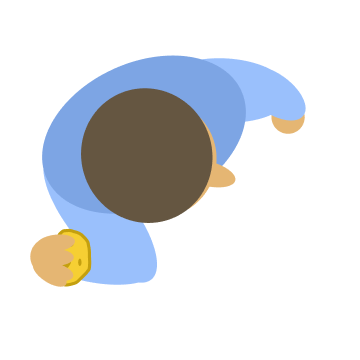
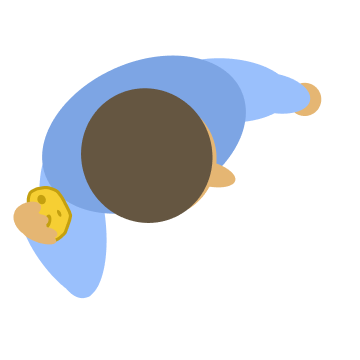
add sprites for all weapons

Changed region(s): [[0.0306, 0.4583, 0.4583, 0.825], [0.7333, 0.2139, 0.9167, 0.3972]]

diff --git a/src/entities/weapons/WeaponInventory.ts b/src/entities/weapons/WeaponInventory.ts
@@ -14,27 +14,30 @@ export class WeaponInventory {
 
   constructor(scene: GameScene) {
     this.scene = scene;
-    this.currentWeapon = new Sniper();
-    this.weapons.set("sniper", this.currentWeapon);
-    this.weapons.set("fullautogun", new FullAutoGun());
+    this.currentWeapon = new Throw();
+    this.weapons.set("throw", this.currentWeapon);
     this.weapons.set("pistol", new Pistol());
+    this.weapons.set("fullautogun", new FullAutoGun());
+    this.weapons.set("sniper", new Sniper());
     this.weapons.set("shotgun", new Shotgun());
-    this.weapons.set("throw", new Throw());
-    this.setCurrentWeapon("pistol");
+    this.setCurrentWeapon("throw");
   }
 
   getCurrentWeapon(): Weapon {
     return this.currentWeapon;
   }
 
+  private updateCharacterTexture(): void {
+    if (this.scene.character) {
+      this.scene.character.setTexture(this.currentWeapon.characterTexture);
+    }
+  }
+
   setCurrentWeapon(weaponName: string): boolean {
     const weapon = this.weapons.get(weaponName);
     if (weapon) {
       this.currentWeapon = weapon;
-      if (this.scene.character) {
-        this.scene.character.setTexture(weapon.characterTexture);
-        console.log("set texture to", weapon.characterTexture);
-      }
+      this.updateCharacterTexture();
       return true;
     }
     return false;
@@ -74,6 +77,7 @@ export class WeaponInventory {
     const nextWeapon = weapons[nextIndex];
     if (nextWeapon) {
       this.currentWeapon = nextWeapon;
+      this.updateCharacterTexture();
     }
   }
 

diff --git a/src/utils/AssetLoadHelpers.ts b/src/utils/AssetLoadHelpers.ts
@@ -9,6 +9,10 @@ import healthPackUrl from "../assets/healthpack.png";
 import potatoUrl from "../assets/potato.png";
 import characterUrl from "../assets/character.png";
 import characterThrowUrl from "../assets/character-throw.png";
+import characterAutoGunUrl from "../assets/character-auto-gun.png";
+import characterSingleFireUrl from "../assets/character-single-fire.png";
+import characterMultiGunUrl from "../assets/character-multi-gun.png";
+import characterNoGunUrl from "../assets/character-no-gun.png";
 import characterSpudblasterUrl from "../assets/character-spudblaster.png";
 import zombieTractorUrl from "../assets/zombie-tractor.png";
 import fieldTileUrl from "../assets/field-tile.png";
@@ -20,6 +24,10 @@ import zombieMoanUrl from "../assets/audio/zombie-moan.m4a";
 
 export const loadAssets = (scene: Phaser.Scene) => {
   scene.load.image("character", characterUrl);
+  scene.load.image("character-auto-gun", characterAutoGunUrl);
+  scene.load.image("character-single-fire", characterSingleFireUrl);
+  scene.load.image("character-multi-gun", characterMultiGunUrl);
+  scene.load.image("character-no-gun", characterNoGunUrl);
   scene.load.image("character-spudblaster", characterSpudblasterUrl);
   scene.load.image("character-throw", characterThrowUrl);
   scene.load.image("compass-square", debugCompassSquare);

diff --git a/src/entities/weapons/Sniper.ts b/src/entities/weapons/Sniper.ts
@@ -5,7 +5,7 @@ import type { GameScene } from "../../scenes/GameScene";
 
 export class Sniper extends Weapon {
   constructor() {
-    super(2000, 3, "Sniper", 0.005, 150);
+    super(4000, 3, "SpudCannon", 0.006, 150, "character-single-fire");
   }
 
   shoot(
@@ -15,19 +15,18 @@ export class Sniper extends Weapon {
     direction: { x: number; y: number }
   ): void {
     // Create a single projectile with weapon damage
-    const projectile = new Projectile(scene, x, y, direction, this.damage);
+    const projectile = new Projectile(scene, x, y, direction, this.damage, 800);
 
     // Apply pushback to the character
     const character = scene.children
       .getChildren()
       .find((c) => c instanceof Character) as Character;
     if (character) {
-      console.log("PUSHBACK");
       // direction is a vector2, opposite of where the character is facing
       const impulse = new Phaser.Math.Vector2(1, 0)
         .rotate(character.rotation + Math.PI)
         .normalize()
-        .scale(500);
+        .scale(600);
       character.applyPushback(impulse);
     }
 

diff --git a/src/entities/weapons/FullAutoGun.ts b/src/entities/weapons/FullAutoGun.ts
@@ -4,7 +4,7 @@ import type { GameScene } from "../../scenes/GameScene";
 
 export class FullAutoGun extends Weapon {
   constructor() {
-    super(150, 1, "Full Auto Gun", 0.002, 60); // Medium shake for full auto
+    super(150, 1, "SpudSow3000", 0.0025, 60, "character-spudblaster");
   }
 
   shoot(
@@ -14,7 +14,7 @@ export class FullAutoGun extends Weapon {
     direction: { x: number; y: number }
   ): void {
     // Create a single projectile with weapon damage
-    const projectile = new Projectile(scene, x, y, direction, this.damage);
+    const projectile = new Projectile(scene, x, y, direction, this.damage, 400);
 
     // Add to scene's projectile array
     scene.projectiles.push(projectile);

diff --git a/src/utils/TweenHelpers.ts b/src/utils/TweenHelpers.ts
@@ -63,4 +63,28 @@ export class TweenHelpers {
       ease: "Power2",
     });
   }
+
+  static bounceAtDirection(
+    entity: Phaser.Physics.Arcade.Sprite | PickableItem,
+    scene: GameScene,
+    direction: Phaser.Math.Vector2
+  ): void {
+    const randomDistance = 20 + Math.random() * 20;
+    const targetVector = direction
+      .clone()
+      .normalize()
+      .rotate(Math.random() - 0.5)
+      .scale(randomDistance);
+
+    const targetX = entity.x + targetVector.x;
+    const targetY = entity.y + targetVector.y;
+
+    scene.tweens.add({
+      targets: entity,
+      x: targetX,
+      y: targetY,
+      duration: 500,
+      ease: "Power2",
+    });
+  }
 }

diff --git a/src/entities/Projectile.ts b/src/entities/Projectile.ts
@@ -81,7 +81,7 @@ export class Projectile extends Phaser.Physics.Arcade.Sprite {
   bounceAsPickableItem(): void {
     const potato = new AmmoPack(this.scene, this.x, this.y);
     this.scene.pickableItems.push(potato);
-    TweenHelpers.bounceAtRandomDirection(potato, this.scene);
+    TweenHelpers.bounceAtDirection(potato, this.scene, this.direction);
   }
 
   override update(time: number): void {

diff --git a/src/entities/weapons/Shotgun.ts b/src/entities/weapons/Shotgun.ts
@@ -4,7 +4,7 @@ import type { GameScene } from "../../scenes/GameScene";
 
 export class Shotgun extends Weapon {
   constructor() {
-    super(800, 1, "Shotgun", 0.006, 120); // Medium fire rate, medium damage, heavy shake
+    super(800, 1, "Shotgun", 0.006, 120, "character-multi-gun");
   }
 
   shoot(

diff --git a/src/entities/weapons/Pistol.ts b/src/entities/weapons/Pistol.ts
@@ -4,7 +4,7 @@ import type { GameScene } from "../../scenes/GameScene";
 
 export class Pistol extends Weapon {
   constructor() {
-    super(500, 1, "SpudBlaster", 0.002, 80, "character-spudblaster");
+    super(600, 1, "SpudBlaster", 0.002, 80, "character-auto-gun");
   }
 
   shoot(
